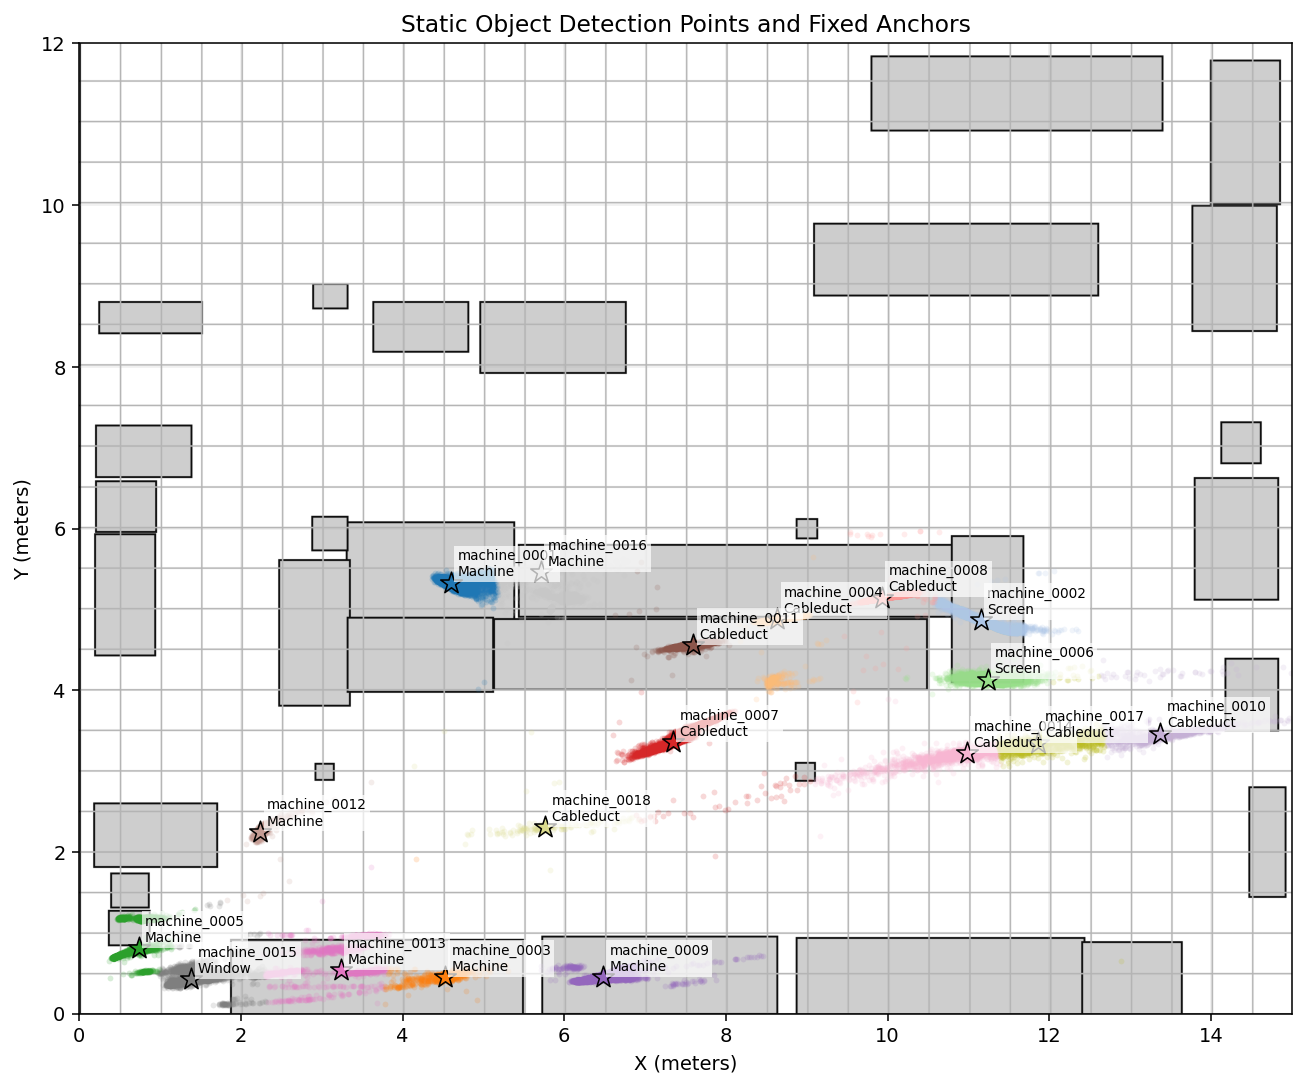
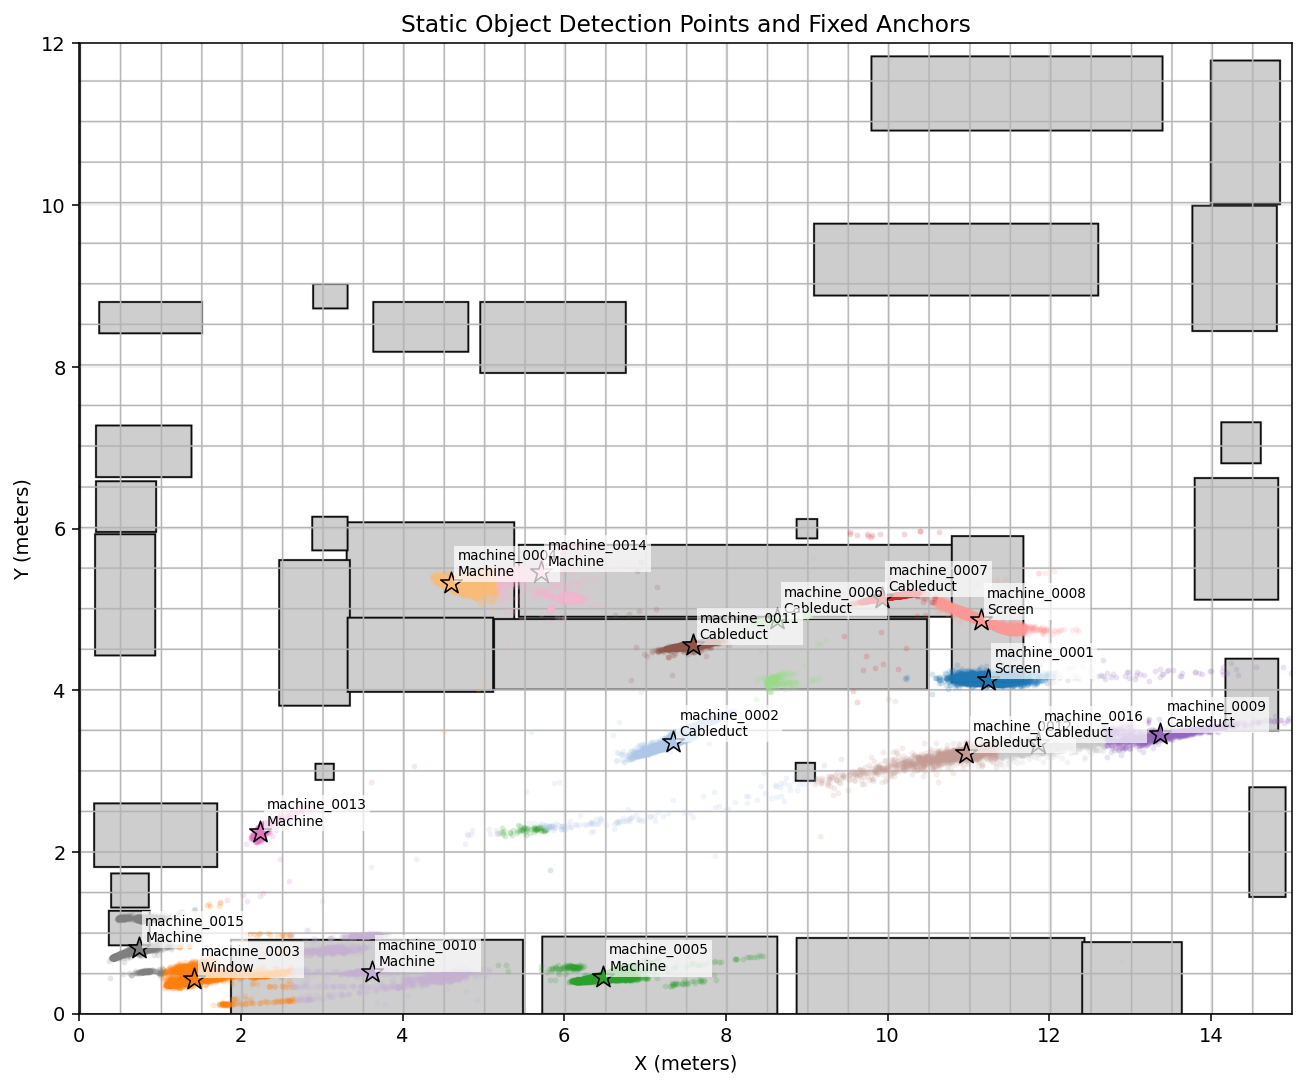
update timeline.csv

diff --git a/src/animate_timeline.py b/src/animate_timeline.py
@@ -111,6 +111,50 @@ def build_histories(rows, temperature_column):
     return histories
 
 
+def eligible_object_ids(rows, people_or_machine, min_observations):
+    counts = defaultdict(int)
+    for row in rows:
+        if row.get("people_or_machine") == people_or_machine:
+            counts[row["object_id"]] += 1
+    return {object_id for object_id, count in counts.items() if count >= min_observations}
+
+
+def build_forward_filled_machine_frames(timestamps, frame_rows, eligible_machine_ids):
+    last_machine_rows = {}
+    filled_frame_rows = {}
+    filled_machine_rows = []
+
+    for timestamp in timestamps:
+        current_rows = frame_rows[timestamp]
+        people_rows = [row for row in current_rows if row.get("people_or_machine") == "person"]
+        current_machine_rows = {}
+        for row in current_rows:
+            if row.get("people_or_machine") != "machine":
+                continue
+            object_id = row["object_id"]
+            if object_id not in eligible_machine_ids:
+                continue
+            current_row = copy(row)
+            current_row["is_forward_filled"] = "false"
+            current_machine_rows[object_id] = current_row
+            last_machine_rows[object_id] = current_row
+
+        frame_machine_rows = []
+        for object_id in sorted(last_machine_rows):
+            row = copy(last_machine_rows[object_id])
+            if object_id not in current_machine_rows:
+                row["timestamp_dt"] = timestamp
+                row["timestamp"] = timestamp.strftime("%Y-%m-%d %H:%M:%S")
+                row["image_name"] = ""
+                row["is_forward_filled"] = "true"
+            frame_machine_rows.append(row)
+            filled_machine_rows.append(row)
+
+        filled_frame_rows[timestamp] = frame_machine_rows + people_rows
+
+    return filled_frame_rows, filled_machine_rows
+
+
 def assign_object_colors(object_ids, cmap_name):
     object_ids = sorted(object_ids)
     if not object_ids:
@@ -142,9 +186,13 @@ def build_animation_from_rows(rows, args):
     if not timestamps:
         raise ValueError("No timestamps found for animation.")
 
-    _, machine_histories = subset_histories(
-        rows, "machine", args.machine_min_observations, args.temperature_column
+    eligible_machine_ids = eligible_object_ids(rows, "machine", args.machine_min_observations)
+    frame_rows, filled_machine_rows = build_forward_filled_machine_frames(
+        timestamps,
+        frame_rows,
+        eligible_machine_ids,
     )
+    machine_histories = build_histories(filled_machine_rows, args.temperature_column)
     _, people_histories = subset_histories(
         rows, "person", args.people_min_observations, args.temperature_column
     )
@@ -245,14 +293,26 @@ def build_animation_from_rows(rows, args):
             if np.isnan(px) or np.isnan(py):
                 continue
             object_id = row["object_id"]
-            label = row["label"]
+            label = (row.get("canonical_label") or row["label"]) if row["people_or_machine"] == "machine" else row["label"]
             marker = LABEL_MARKERS.get(label, "o")
             if row["people_or_machine"] == "machine":
                 color = machine_colors.get(object_id, (0.3, 0.3, 0.3, 0.9))
+                alpha = 0.55 if row.get("is_forward_filled") == "true" else 0.95
             else:
                 color = people_colors.get(object_id, (0.8, 0.2, 0.2, 0.9))
+                alpha = 0.95
             current_map_markers.append(
-                ax_map.scatter([px], [py], s=85, c=[color], marker=marker, edgecolors="black", linewidths=0.7, zorder=4)
+                ax_map.scatter(
+                    [px],
+                    [py],
+                    s=85,
+                    c=[color],
+                    marker=marker,
+                    edgecolors="black",
+                    linewidths=0.7,
+                    alpha=alpha,
+                    zorder=4,
+                )
             )
             current_map_texts.append(
                 ax_map.text(